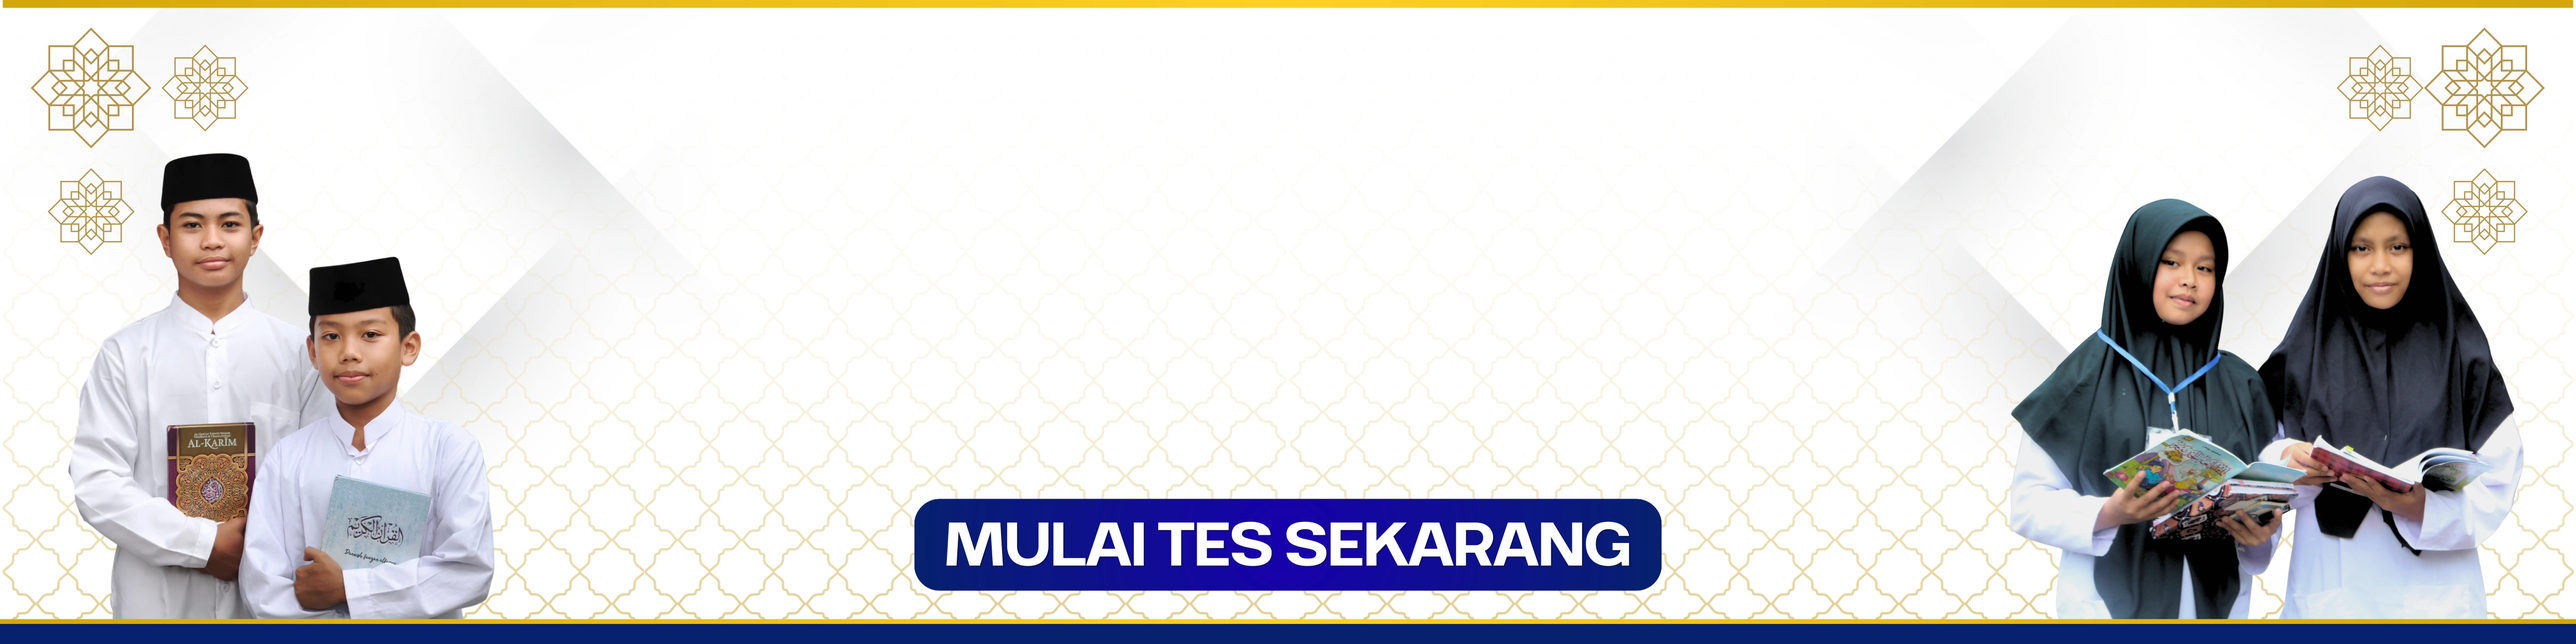
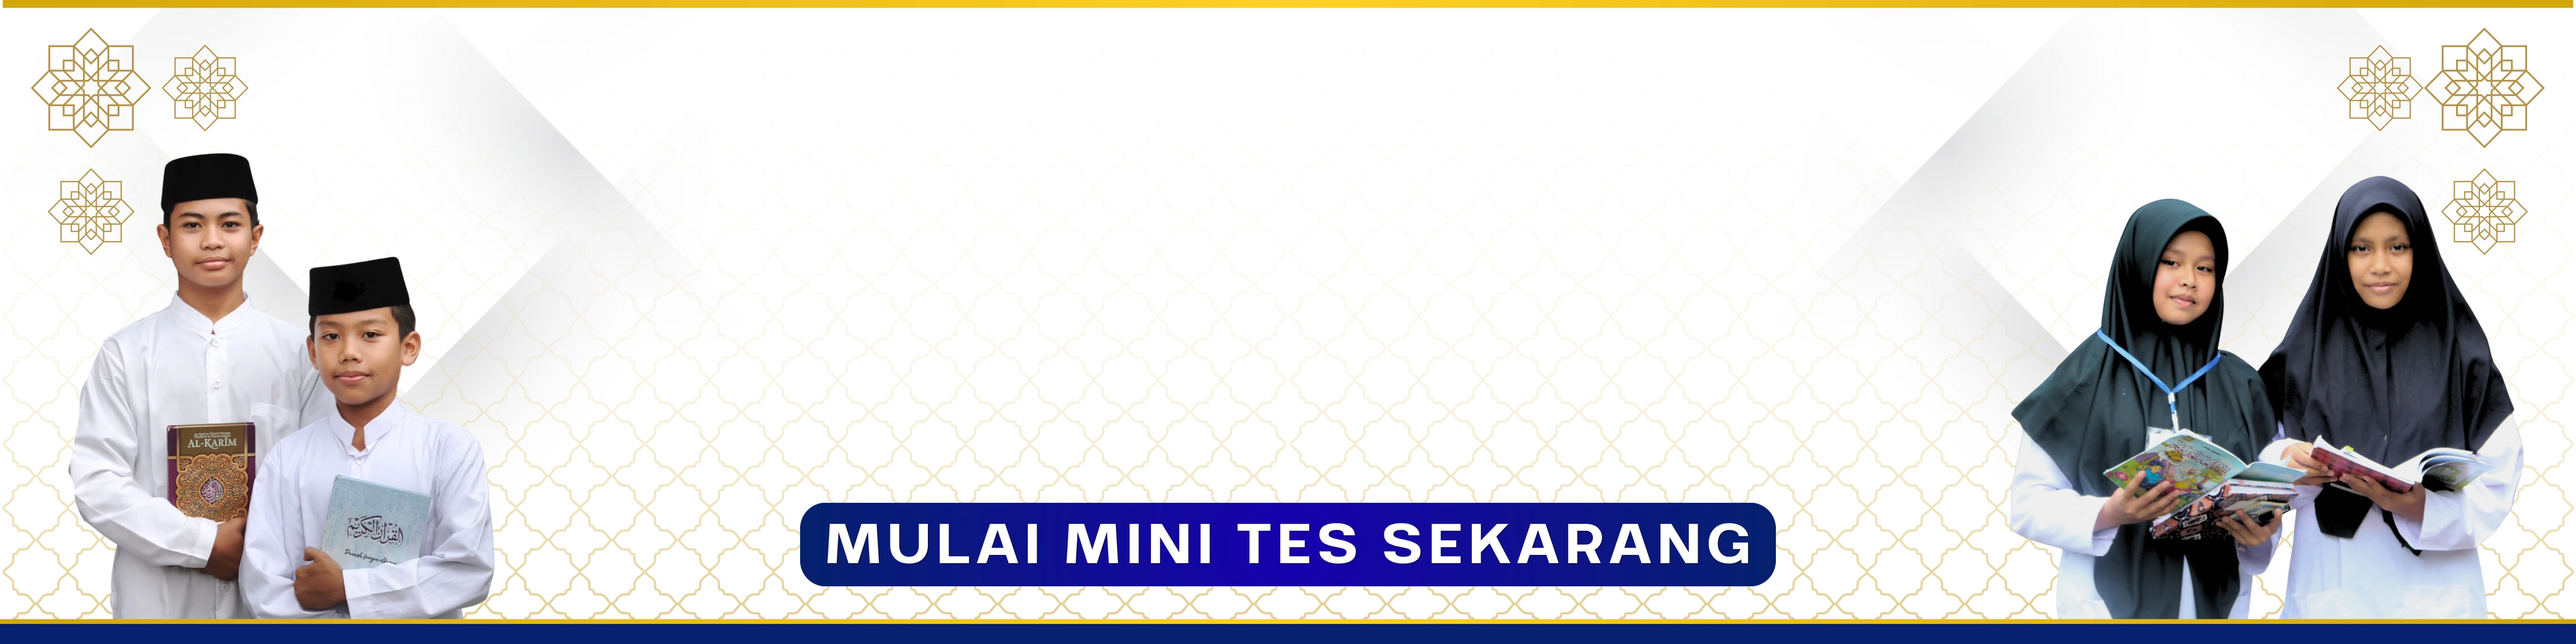
Perbaiki BackToTop & tambah deskripsi tes MI

Changed region(s): [[0.312, 0.78, 0.6864, 0.936], [0.3744, 0.7488, 0.624, 0.78]]

diff --git a/components/MITest.tsx b/components/MITest.tsx
@@ -78,6 +78,12 @@ export default function MITest() {
 
       {/* Test Card */}
       <div className="max-w-3xl mx-auto px-4 py-12">
+
+        {/* Deskripsi */}
+        <p className="text-gray-600 text-sm leading-relaxed mb-8 bg-blue-50 border border-blue-100 rounded-2xl px-5 py-4">
+          Ini adalah contoh tes Potensi Minat dan Bakat yang bisa kamu coba. Sebelum bergabung, setiap calon santri akan mengisi tes Potensi Minat dan Bakat versi lengkap. Hasil tes ini kami gunakan untuk memahami gaya belajar dan bakat unik setiap santri, sehingga kami dapat memberikan pendampingan yang tepat dan personal selama mereka nyantri di pesantren. Tes akan dilakukan berkala setahun sekali.
+        </p>
+
         <div className="space-y-6">
           {miQuestions.map((q, idx) => (
             <div key={q.id} className="bg-white rounded-2xl shadow-sm border border-gray-100 p-6">
@@ -109,6 +115,11 @@ export default function MITest() {
         {error && (
           <p className="mt-6 text-center text-red-500 font-medium">{error}</p>
         )}
+
+        {/* Deskripsi ilmiah */}
+        <p className="italic mt-8 text-sm text-gray-400 leading-relaxed text-center max-w-xl mx-auto">
+          Tes ini disusun berbasis teori Multiple Intelligences (1986) dari Howard Gardner, psikolog perkembangan lulusan Harvard. Landasan ilmiah ini kami gunakan untuk membantu Anda memahami keunikan bakat Ananda secara lebih objektif, akurat, dan terukur.
+        </p>
 
         {/* Submit */}
         <div className="mt-8 text-center">

diff --git a/components/BackToTop.tsx b/components/BackToTop.tsx
@@ -31,7 +31,7 @@ export default function BackToTop() {
       {isVisible && (
         <button
           onClick={scrollToTop}
-          className="fixed bottom-24 right-10 z-50 bg-blue-600 hover:bg-blue-700 text-white p-4 rounded-full shadow-lg hover:shadow-2xl transition-all duration-300 transform hover:scale-110"
+          className="fixed bottom-24 right-10 z-[60] bg-blue-600 hover:bg-blue-700 text-white p-4 rounded-full shadow-lg hover:shadow-2xl transition-all duration-300 transform hover:scale-110 cursor-pointer"
           aria-label="Back to top"
         >
           <svg 
